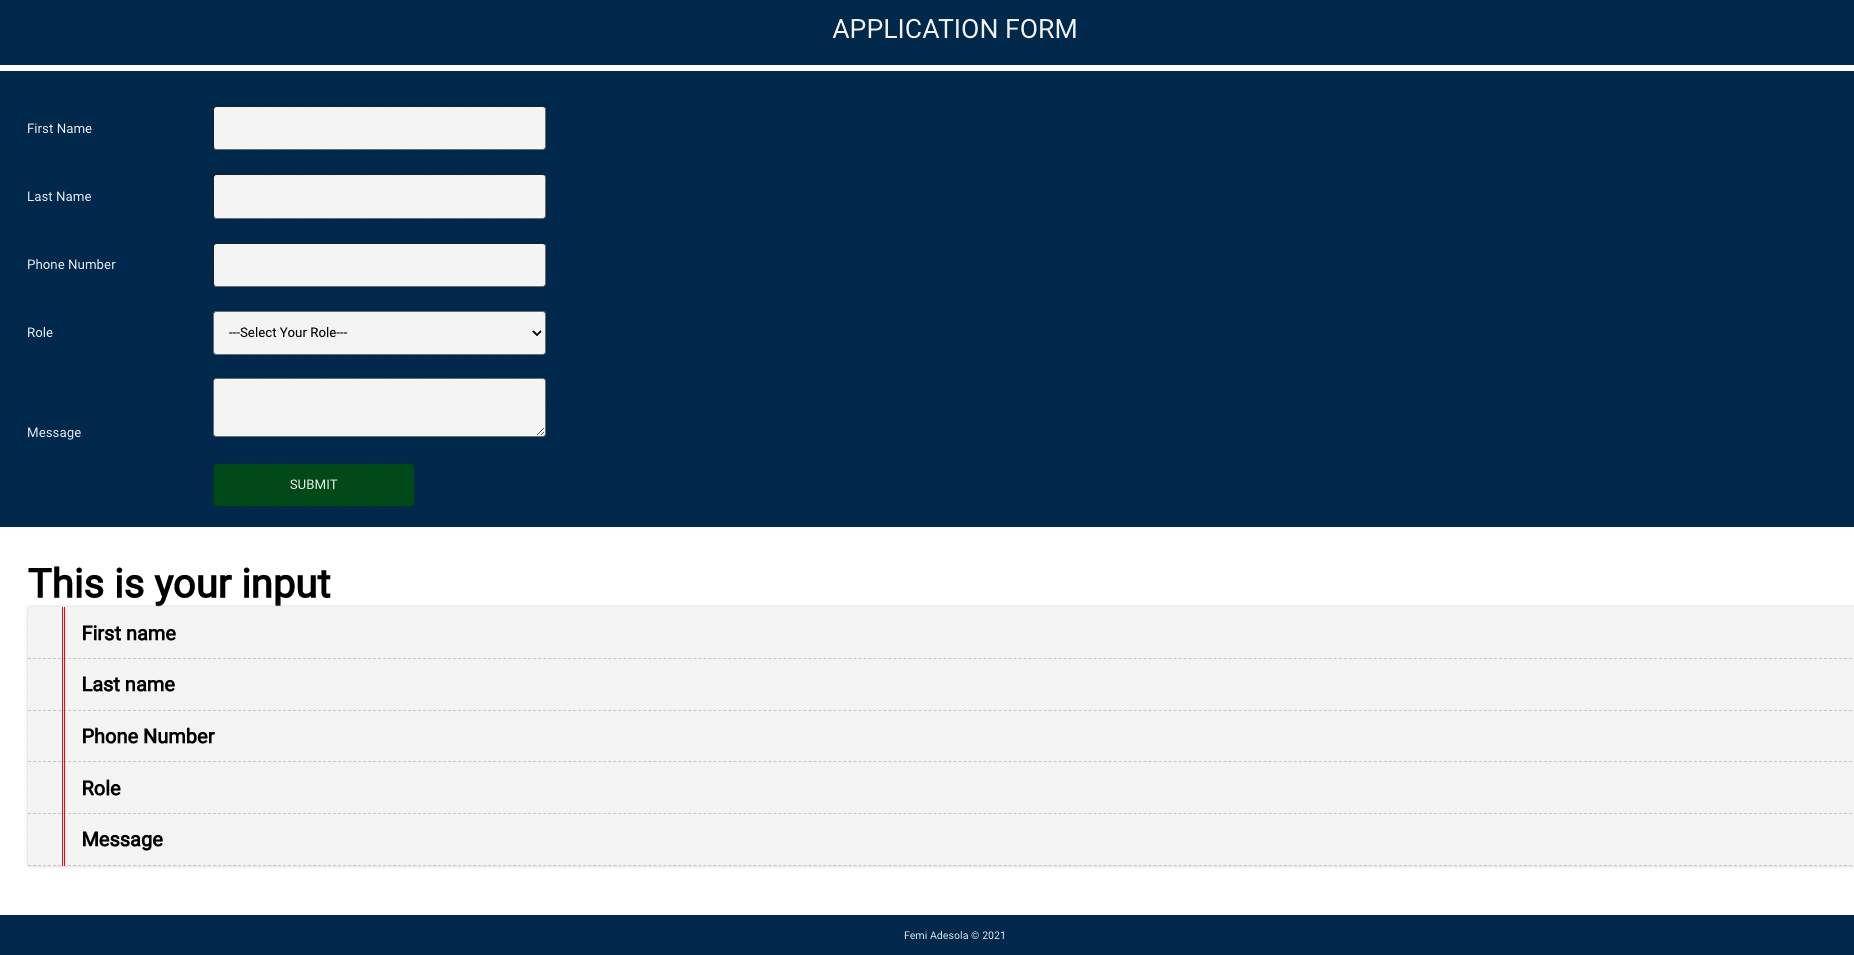
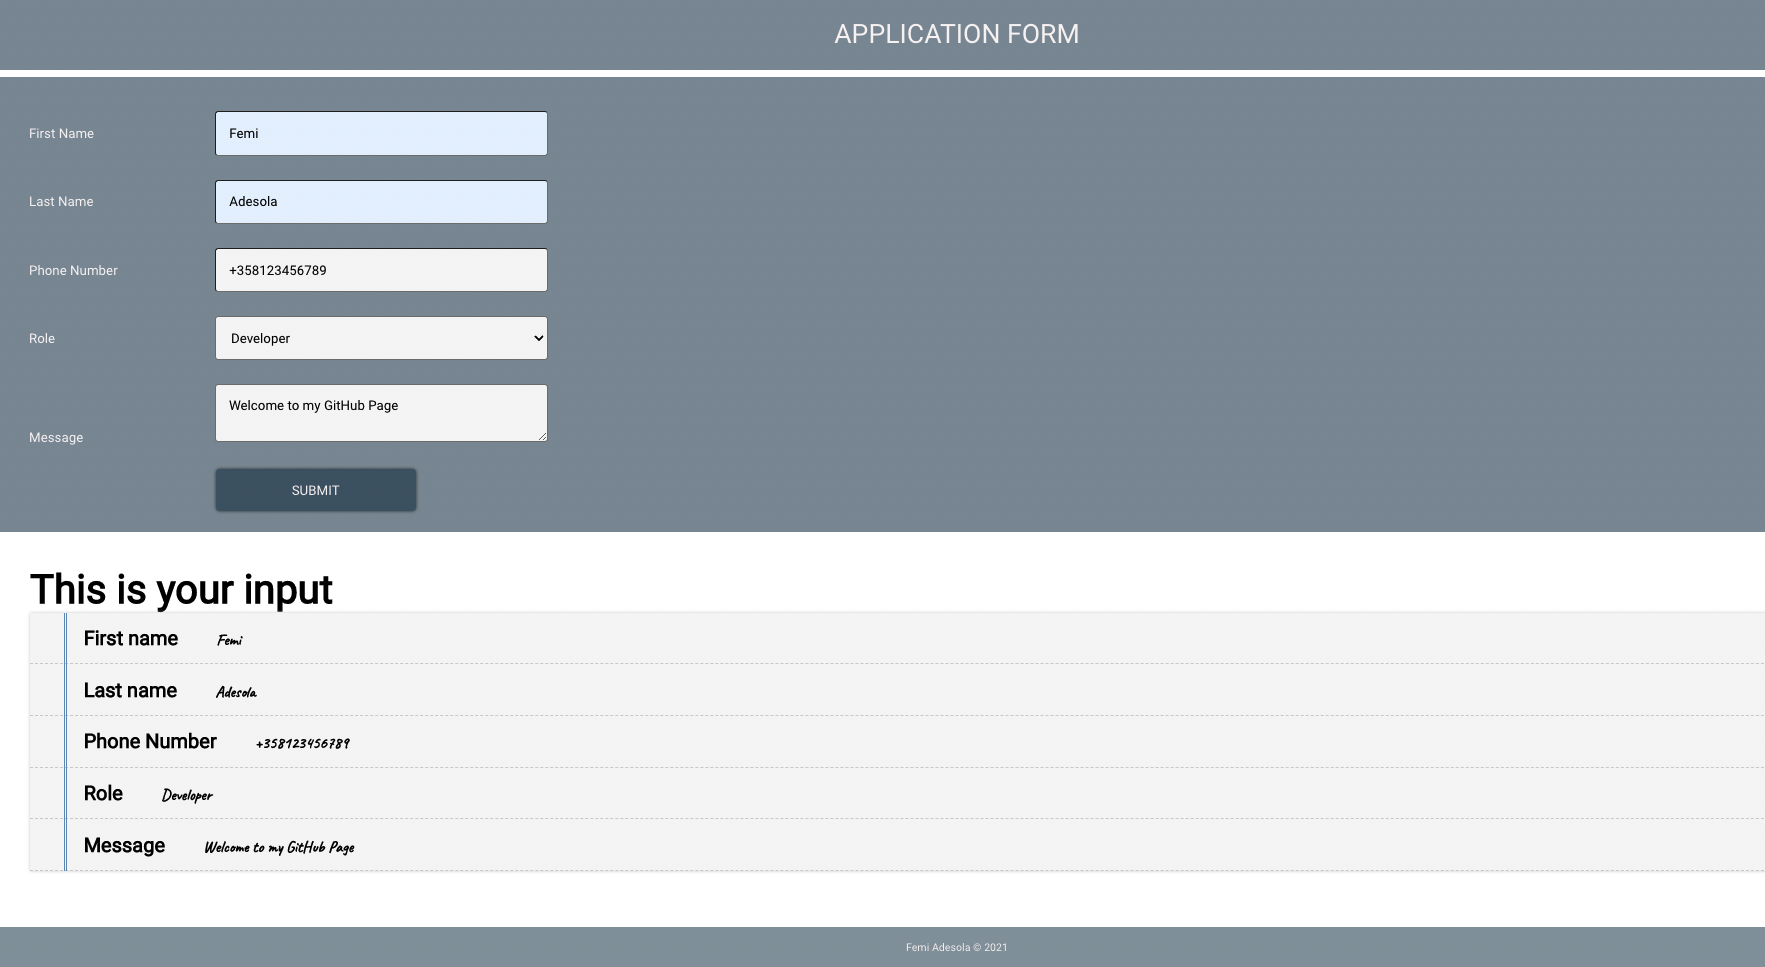
Chang background color

diff --git a/src/styles/App.css b/src/styles/App.css
@@ -8,9 +8,10 @@
   --bg-color-1:#0b520b;
   --bg-color-2:#333333e6;
   --bg-color-3:#becf21;
-  --bg-color-4:#032b58;
+  --bg-color-4:#0b213b80;
+  --bg-color-5:#0b520b;
 
-  --color-1:red;
+  --color-1:#7290be;
  --color-2:#cecece;
  --color-3:#f5f5f5;
  --color-4:#333;
@@ -27,33 +28,35 @@
 }
 
 body {
-  margin: auto;
   font-family: var(--font-2);
   -webkit-font-smoothing: antialiased;
   -moz-osx-font-smoothing: grayscale;
 }
 
 header{
-  margin-top: 10px;
   padding: 30px;
-  align-items: center;
   text-align: center;
   font-size: 40px;
   background-color: var(--bg-color-4);
   color: var(--white);
   width: 100%;
- text-transform: uppercase;
+  text-transform: uppercase;
 
 }
 
 
 footer{
-  text-align: center;
   width: 100%;
+  position: absolute;
   bottom: 0;
-  background-color: var(--bg-color-4);
   padding: 20px;
   text-align: center;
   color: var(--white);
-  position: absolute;
+  background-color: var(--bg-color-4);
 }
+
+footer{
+  position: fixed;
+}
+
+

diff --git a/src/styles/Form.css b/src/styles/Form.css
@@ -22,8 +22,8 @@ form{
     background-color: var(--color-3);
   }
   /* ####### input button ##### */
-  input[type="submit"]{
-    background-color: var(--bg-color-1);
+  form input[type="submit"]{
+    background-color: var(--bg-color-4);
     color:var(--white);
     border: none;
     border-radius: 5px;
@@ -34,6 +34,11 @@ form{
     text-transform: uppercase;
   }
   
+ .submit input[type="submit"]:hover{
+   background-color: var(--color-1);
+  }
+  
+
   label {
     display: inline-block;
     width: 10%;

diff --git a/src/components/Form.js b/src/components/Form.js
@@ -42,7 +42,6 @@ const Form = (props) => {
                 </div>
                 <div className="submit">
                 <input type="submit" value="Submit" /> 
-        
                 </div>
                 
             </form>
